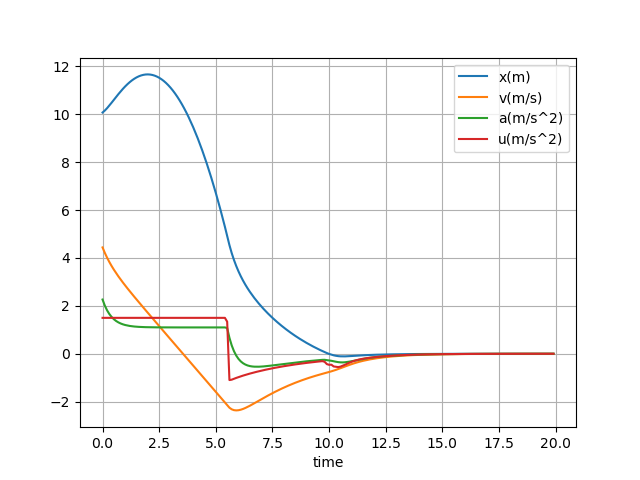
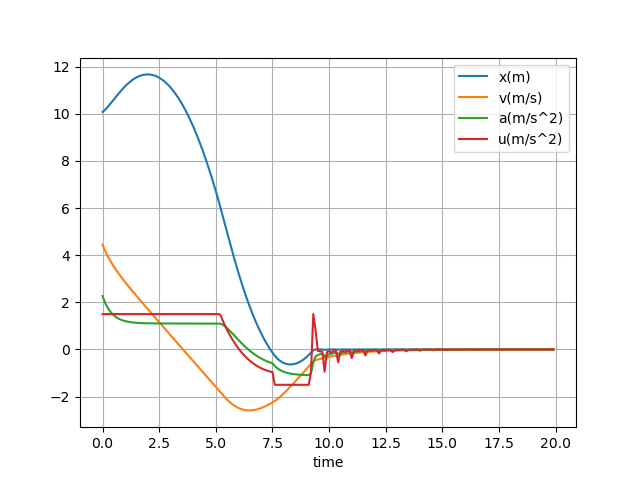
near final version

diff --git a/main.py b/main.py
@@ -1,6 +1,7 @@
 import numpy as np
 import random
 import casadi as ca
+from time import time
 
 # import the modules
 from plot import Plotter
@@ -36,8 +37,10 @@ def record_target(state, name):
     plotter.record(state[1], "v(m/s)", name)
     plotter.record(state[2], "a(m/s^2)", name)
 
-# create a acceleration reference of the preceding vehicle
 
+# create a acceleration reference of the preceding vehicle
+Q = ca.DM([50, 1, 1])
+R = ca.DM([1])
 
 us = []
 times = []
@@ -45,8 +48,12 @@ times = []
 # main loop
 if __name__ == "__main__":
     for i in range(len(t)+1):
+        start_time = time()
         # update the optimal control input
-        u0 = mpc.return_best_u(diff_state, ref)
+        print('-----------------------'*5)
+        print('Q:', Q)
+        print('R:', R)
+        u0 = mpc.return_best_u(diff_state, ref, Q, R)
         times.append(mpc.time)
         # print control input
         print('u0:', u0)
@@ -58,12 +65,12 @@ if __name__ == "__main__":
         [[dd], [dv], [ah]] = mpc_state
         print('mpc_state:', mpc_state)
         # update the Q and R according to the desired performance
-        if dd < 0 and dv > 0:
-            mpc.__init__(P=50)
-            Q = ca.DM([50, 1, 1])
+        if dd < 0 or dv > 0:
+            mpc.__init__(P=5)
+            Q = ca.DM([500, 0.1, 0.1])
             R = ca.DM([0.1])
         else:
-            mpc.__init__(P=100)
+            mpc.__init__(P=10)
             Q = ca.DM([1, 1, 1])
             R = ca.DM([1])
 
@@ -71,6 +78,7 @@ if __name__ == "__main__":
         record_target(mpc_state, name="diff")
         plotter.record(u0, "u(m/s^2)", "diff")
         record_target(host_vehicle.state_value.full().tolist(), name="host")
-        print('host:', host_vehicle.state_value)
+        # print('host:', host_vehicle.state_value)
+        print('iteration time:', time()-start_time)
     plotter.save_graph()
     print('the average time of each iteration:', np.mean(times))
